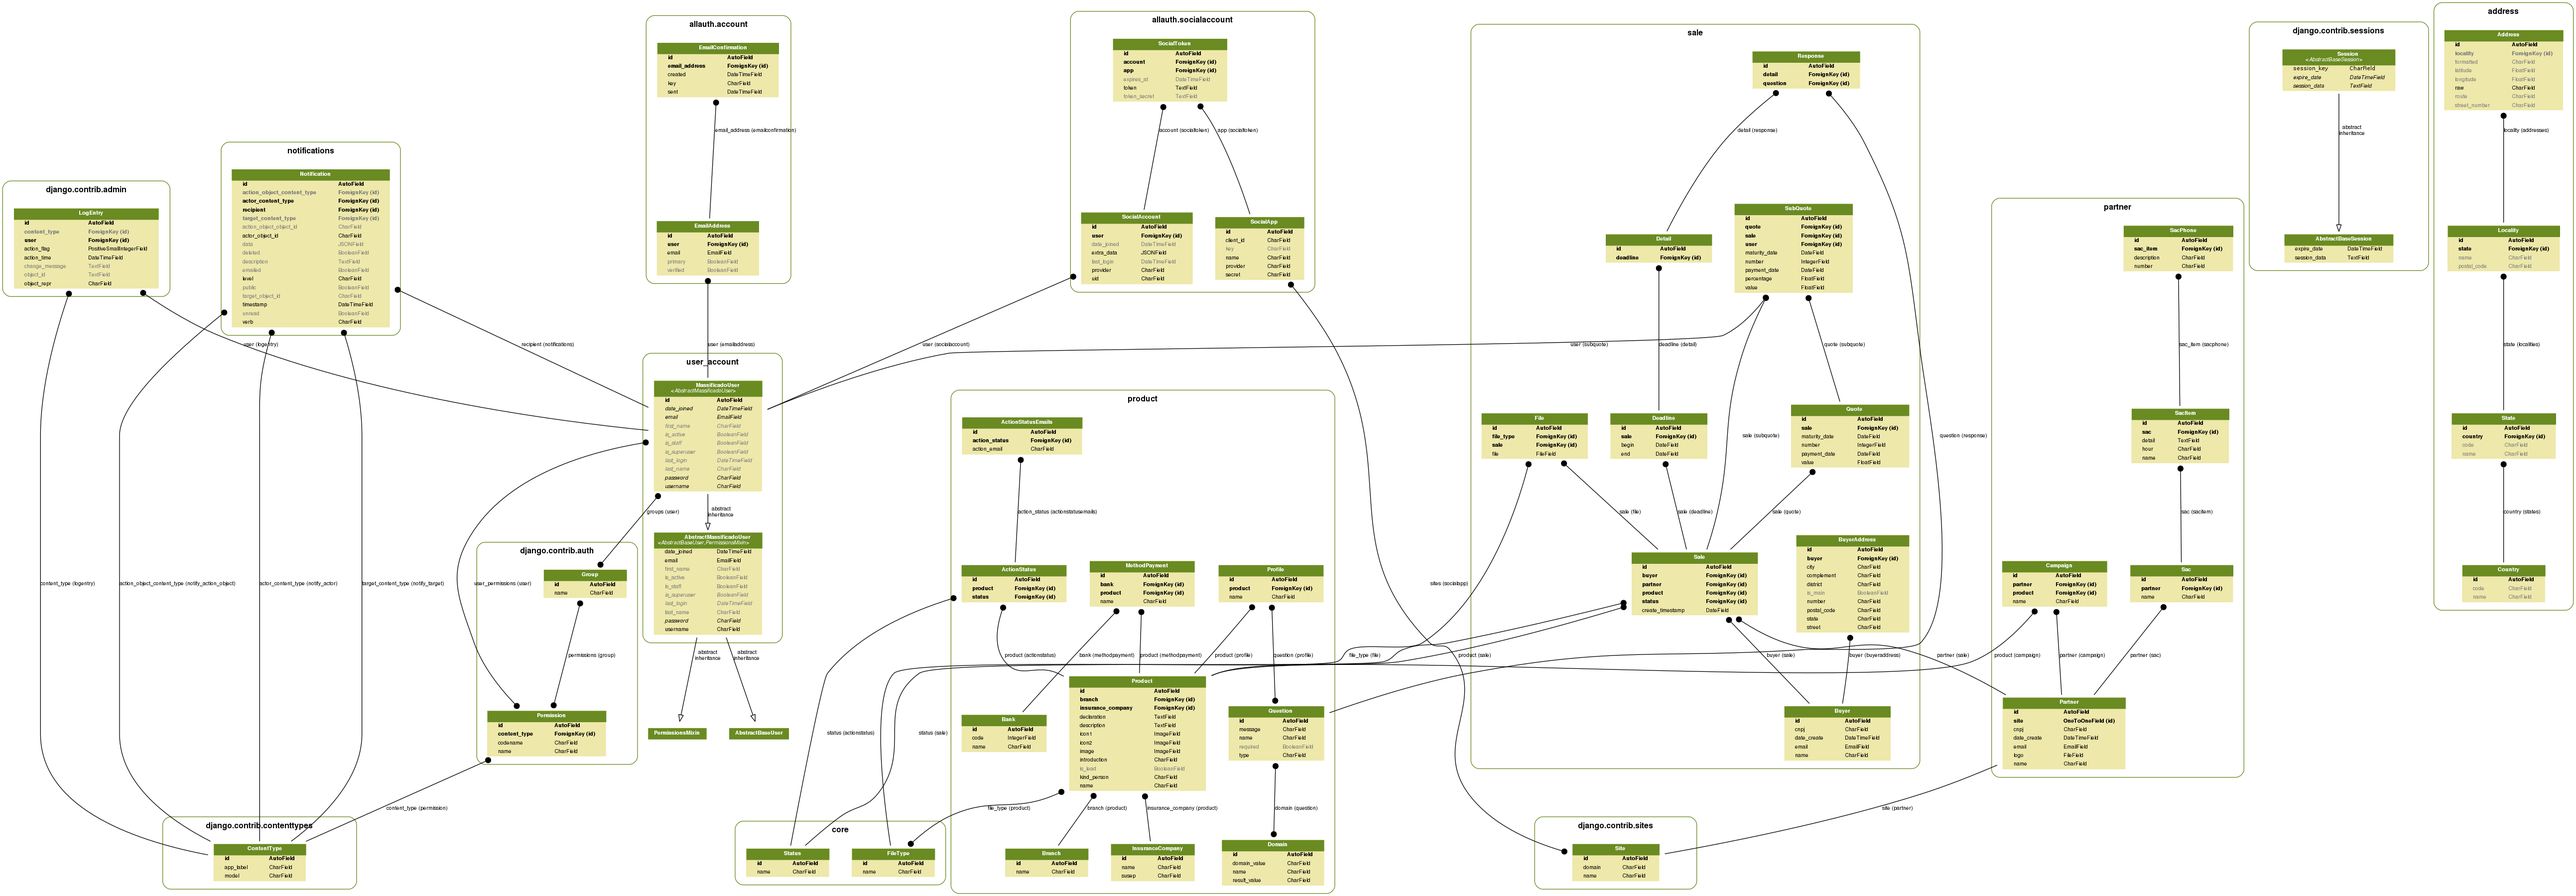
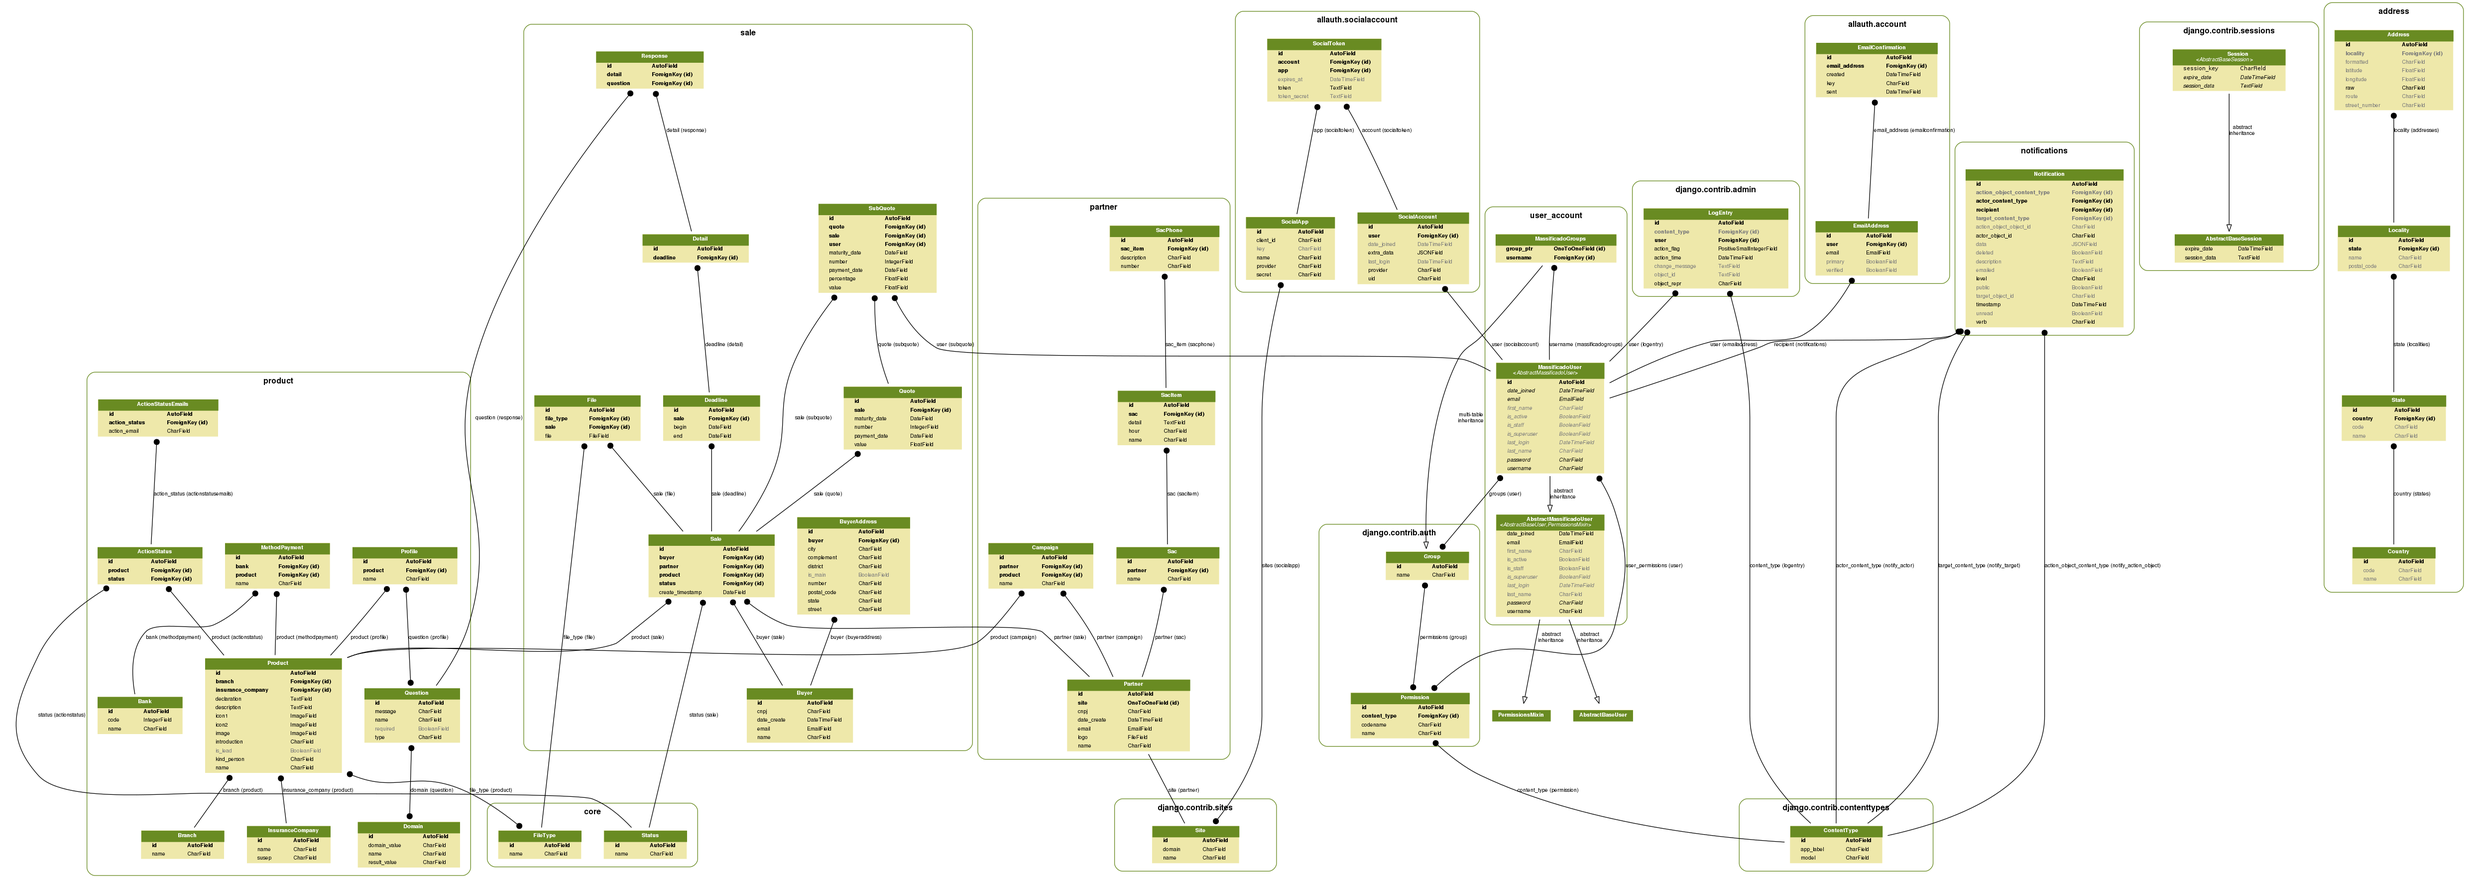
Forms Profile Product

diff --git a/themes/default/templates/header.html b/themes/default/templates/header.html
@@ -17,29 +17,29 @@
     <!-- Collect the nav links, forms, and other content for toggling -->
     <div class="collapse navbar-collapse" id="nav-header">
       <ul class="nav navbar-nav navbar-right">
-{#        <li><a href="{% if request.get_full_path != '/' %}/{% endif %}#sec-about" class="page-scroll">{% trans "Sobre nós" %}</a></li>#}
-        <li><a href="{% if request.get_full_path != '/' %}/{% endif %}#sec-products" class="page-scroll">{% trans "Produtos " %}
+{#        <li><a href="{% if request.get_full_path != '/' %}/{% endif %}#sec-about" class="page-scroll">{% trans "About us" %}</a></li>#}
+        <li><a href="{% if request.get_full_path != '/' %}/{% endif %}#sec-products" class="page-scroll">{% trans "Products" %}
 {#                {% if user.is_authenticated %}#}
                     <span class="fa fa-shopping-cart fa-lg"></span>
 {#                {% endif %}#}
             </a>
         </li>
-{#        <li><a href="{% if request.get_full_path != '/' %}/{% endif %}#sec-contact" class="page-scroll">{% trans "Fale conosco" %}</a></li>#}
+{#        <li><a href="{% if request.get_full_path != '/' %}/{% endif %}#sec-contact" class="page-scroll">{% trans "Contact Us" %}</a></li>#}
 {#        <li><a href="{% url 'sac' %}" class="page-scroll">{% trans "SAC" %}</a></li>#}
         {% if user.is_authenticated %}
             {% if user.is_admin or user.is_superuser %}
                 <li><a href="{% if request.get_full_path != '/' %}/{% endif %}#dashBoard" class="page-scroll">{% trans "Dashboard" %}</a></li>
-                <li><a href="{% if request.get_full_path != '/' %}/{% endif %}#production" class="page-scroll">{% trans "Produção" %}</a></li>
-                <li><a href="{% url 'entries' %}" class="page-scroll">{% trans "Cadastros" %}</a></li>
-                <li><a href="#notifications" class="page-scroll">{% trans "Notificações" %}</a></li>
+                <li><a href="{% url 'production' %}" class="page-scroll">{% trans "Production" %}</a></li>
+                <li><a href="{% url 'entries' %}" class="page-scroll">{% trans "Entries" %}</a></li>
             {% endif %}
             <li class="dropdown">
                 <a class="dropdown-toggle" data-toggle="dropdown" href="#">
                     <b>{% user_display user %}</b><span class="caret"></span></a>
               <ul class="dropdown-menu">
-                <li><a href="#">{% trans "Meu Perfil" %}</a></li>
+                <li><a href="#">{% trans "My Profile" %}</a></li>
+                <li><a href="#notifications" class="page-scroll">{% trans "Notifications" %}</a></li>
                 <li class="divider"></li>
-                <li><a href="{% url 'account_logout' %}">{% trans 'Sair' %}</a></li>
+                <li><a href="{% url 'account_logout' %}">{% trans 'Logout' %}</a></li>
               </ul>
             </li>
         {% else %}

diff --git a/themes/default/templates/sections/products.html b/themes/default/templates/sections/products.html
@@ -110,7 +110,7 @@
                                                             <span class="fa fa-plus"> Saiba mais</span>
                                                         </a>
                                                         {% if user.is_authenticated %}
-                                                            <a href="{% url 'product-sale' product.pk %}" class="page-scroll btn btn-primary col-lg-12 col-md-12 col-sm-6 col-xs-6" role="button">
+                                                            <a href="{% url 'product-new-buyer' product.pk %}" class="page-scroll btn btn-primary col-lg-12 col-md-12 col-sm-6 col-xs-6" role="button">
                                                                 <span class="fa fa-cart-plus"> Contratar</span>
                                                             </a>
                                                         {% endif %}
@@ -152,7 +152,7 @@
                                                             <span class="fa fa-plus"> Saiba mais</span>
                                                         </a>
                                                         {% if user.is_authenticated %}
-                                                            <a href="{% url 'product-sale' product.pk %}" class="page-scroll btn btn-primary col-lg-12 col-md-12 col-sm-6 col-xs-6" role="button">
+                                                            <a href="{% url 'product-new-buyer' product.pk %}" class="page-scroll btn btn-primary col-lg-12 col-md-12 col-sm-6 col-xs-6" role="button">
                                                                 <span class="fa fa-cart-plus"> Contratar</span>
                                                             </a>
                                                         {% endif %}

diff --git a/themes/default/templates/page-production-section.html b/themes/default/templates/page-production-section.html
@@ -1,0 +1,32 @@
+{% extends 'base-sec.html' %}
+{% load bootstrap3 %}
+{% load i18n %}
+
+{% block section-title %}{% trans 'Production' %}{% endblock %}
+{% block section-id %}section-production{% endblock %}
+{% block section-content %}
+    <form id="entries-search-form">
+        <div class="input-group">
+          <input type="text" class="form-control" placeholder="{% trans 'Search for a Sale' %}">
+          <span class="input-group-btn">
+            <button class="btn btn-info" type="submit">
+                <span class="fa fa-search"></span>
+            </button>
+          </span>
+        </div>
+    </form>
+    <div class="row">
+        <div class="col-md-4"><strong>{% trans 'Buyer' %}</strong></div>
+        <div class="col-md-4"><strong>{% trans 'Product' %}</strong></div>
+        <div class="col-md-4"><strong>{% trans 'Status' %}</strong></div>
+    </div>
+    {% for sale in sales %}
+        <div class="row">
+            <a href="{% url 'product-edit-buyer' sale.product.pk sale.buyer.pk %}">
+                <div class="col-md-4">{{ sale.buyer }}</div>
+                <div class="col-md-4">{{ sale.product }}</div>
+                <div class="col-md-4">{{ sale.status }}</div>
+            </a>
+        </div>
+    {% endfor %}
+{% endblock %}

diff --git a/themes/default/templates/page-sale-section.html b/themes/default/templates/page-sale-section.html
@@ -18,7 +18,9 @@
                 {% bootstrap_dynamic_formset addressbuyer can_delete=True form_wrapper="col-md-4 well" %}
             </div>
         </div>
-        <input type="hidden" name="productpk" value="{{ productpk }}">
+        {% if productpk %}
+            <input type="hidden" name="productpk" value="{{ productpk }}">
+        {% endif %}
         <div class="row">
             <div class="col-md-4 col-md-offset-4">
                 {% bootstrap_button "Save" button_type="submit" button_class="btn-success pull-right" icon="ok" %}

diff --git a/themes/default/templates/page-production.html b/themes/default/templates/page-production.html
@@ -1,0 +1,5 @@
+{% extends 'base.html' %}
+
+{% block content %}
+    {% include 'page-production-section.html' %}
+{% endblock %}

diff --git a/sale/views.py b/sale/views.py
@@ -2,36 +2,38 @@
 from django.contrib.auth.mixins import LoginRequiredMixin
 from django.core.urlresolvers import reverse_lazy
 from django.db import transaction
+from django.core.paginator import Paginator
+from django.views.generic.detail import DetailView
 from django.views.generic.edit import CreateView, UpdateView
 from django.views.generic import ListView
 from .models import Sale, Partner, Buyer, Status
-from .forms import SaleBuyerFormSet, BuyerForm, FullSaleForm, AddressBuyerFormset
+from .forms import BuyerForm, AddressBuyerFormset
 from product.models import Product
 
 
-class SalesView(LoginRequiredMixin, ListView):
-    model = Sale
+class ProductionView(LoginRequiredMixin, ListView):
     context_object_name = 'sales'
-    template_name = 'page-sales.html'
+    template_name = 'page-production.html'
 
     def get_queryset(self):
-        return Sale.objects.all()
+        # todo: filter sales by the user and his permissions
+        # sale_page = Paginator(Sale.objects.all(), 1000)
+        return Paginator(Sale.objects.all(), 1000).page(1)
 
 
-class CreateSaleView(LoginRequiredMixin, CreateView):
+class CreateBuyerView(LoginRequiredMixin, CreateView):
     model = Buyer
     form_class = BuyerForm
     template_name = 'page-sale.html'
-    context_object = 'sale'
 
     def get_context_data(self, **kwargs):
-        data = super(CreateSaleView, self).get_context_data(**kwargs)
+        data = super(CreateBuyerView, self).get_context_data(**kwargs)
         data['productpk'] = self.kwargs['productpk']
         data['addressbuyer'] = AddressBuyerFormset()
         return data
 
     def form_valid(self, form):
-        response = super(CreateSaleView, self).form_valid(form)
+        response = super(CreateBuyerView, self).form_valid(form)
         addresses = AddressBuyerFormset(self.request.POST)
         if addresses.is_valid():
             addresses.instance.buyer = self.object
@@ -48,10 +50,29 @@ class CreateSaleView(LoginRequiredMixin, CreateView):
         return reverse_lazy('index_view')
 
 
-class FullSaleView(LoginRequiredMixin, UpdateView):
-    model = Sale
-    form_class = FullSaleForm
-    template_name = 'page-sale-full.html'
+class EditBuyerView(LoginRequiredMixin, UpdateView):
+    model = Buyer
+    form_class = BuyerForm
+    template_name = 'page-sale.html'
+
+    def get_context_data(self, **kwargs):
+        data = super(EditBuyerView, self).get_context_data(**kwargs)
+        data['addressbuyer'] = AddressBuyerFormset()
+        return data
+
+    def form_valid(self, form):
+        response = super(EditBuyerView, self).form_valid(form)
+        addresses = AddressBuyerFormset(self.request.POST)
+        if addresses.is_valid():
+            addresses.instance.buyer = self.object
+            addresses.save()
+        return response
 
     def get_success_url(self):
-        return reverse_lazy('')
+        return reverse_lazy('index_view')
+
+
+class EditProductProfileView(LoginRequiredMixin, DetailView):
+    model = Sale
+    # form_class = ProductProfileForm
+    template_name = 'page-sale-product-view.html'

diff --git a/sale/forms.py b/sale/forms.py
@@ -2,25 +2,7 @@
 from django import forms
 from django.forms.models import inlineformset_factory
 
-from sale.models import Sale, Buyer, BuyerAddress
-
-
-class SaleForm(forms.ModelForm):
-    class Meta:
-        model = Sale
-        fields = []
-
-    def clean_product(self):
-        return self.instance.product
-
-    def clean_partner(self):
-        return self.instance.partner
-
-
-class FullSaleForm(forms.ModelForm):
-    class Meta:
-        model = Sale
-        fields = []
+from sale.models import Sale, Buyer, BuyerAddress, Deadline, Quote, File
 
 
 class BuyerForm(forms.ModelForm):
@@ -35,4 +17,29 @@ class BuyerAddressForm(forms.ModelForm):
         fields = ['street', 'district', 'complement', 'number', 'city', 'state', 'postal_code', ]
 
 AddressBuyerFormset = inlineformset_factory(Buyer, BuyerAddress, form=BuyerAddressForm, extra=0, min_num=1)
-SaleBuyerFormSet = inlineformset_factory(Buyer, Sale, form=SaleForm, extra=0, min_num=1)
+
+
+class QuoteSaleForm(forms.ModelForm):
+    class Meta:
+        model = Quote
+        fields = ['number', 'payment_date', 'value', 'maturity_date']
+
+QuoteSaleFormset = inlineformset_factory(Sale, Quote, form=QuoteSaleForm, extra=0, min_num=1)
+
+
+class DeadlineSaleForm(forms.ModelForm):
+
+    class Meta:
+        model = Deadline
+        fields = ['begin', 'end']
+
+DeadlineSaleFormset = inlineformset_factory(Sale, Deadline, form=DeadlineSaleForm, extra=0, min_num=1)
+
+
+class FileSaleForm(forms.ModelForm):
+
+    class Meta:
+        model = File
+        fields = ['file', 'file_type']
+
+FileSaleFormset = inlineformset_factory(Sale, File, form=FileSaleForm, extra=0, min_num=1)

diff --git a/massificados/urls.py b/massificados/urls.py
@@ -20,9 +20,7 @@ from django.contrib import admin
 from django.conf import settings
 # from django.conf.urls.static import static
 from core.views import IndexView, EntriesView
-from sale.views import CreateSaleView
-from sale.views import FullSaleView
-from sale.views import SalesView
+from sale.views import ProductionView, CreateBuyerView, EditBuyerView, EditProductProfileView
 from user_account.views import (EntriesProfilesView, EntriesUsersView, EntrieUserNewView, EntrieUserEditView,
                                 EntrieProfileNewView, EntrieProfileEditView)
 
@@ -48,10 +46,16 @@ urlpatterns = [
     url(r'^accounts/', include('allauth.urls')),
 
 
-    url(r'^sales/$', SalesView.as_view(), name='sales'),
+    # url(r'^sales/$', SalesView.as_view(), name='sales'),
     # url(r'^product/sale/$', CreateSaleView.as_view(), name='product-sale'),
-    url(r'^product/(?P<productpk>[0-9]+)/sale/$', CreateSaleView.as_view(), name='product-sale'),
-    url(r'^sale/(?P<pk>[0-9]+)/$', FullSaleView.as_view(), name='sale-full'),
+    url(r'^product/(?P<productpk>[0-9]+)/buyer/$', CreateBuyerView.as_view(), name='product-new-buyer'),
+    url(r'^product/(?P<productpk>[0-9]+)/buyer/(?P<pk>[0-9]+)$', EditBuyerView.as_view(), name='product-edit-buyer'),
+
+    url(r'^product/(?P<productpk>[0-9]+)/buyer/(?P<pk>[0-9]+)/profile$', EditProductProfileView.as_view(), name='product-profile'),
+
+    # url(r'^sale/(?P<pk>[0-9]+)/$', FullSaleView.as_view(), name='sale-full'),
+
+    url(r'^production/$', ProductionView.as_view(), name='production'),
 
 ] + static(settings.MEDIA_URL, document_root=settings.MEDIA_ROOT)
 

diff --git a/user_account/views.py b/user_account/views.py
@@ -2,6 +2,7 @@
 from django.contrib.auth.models import Group
 from django.contrib.auth.mixins import LoginRequiredMixin
 from django.core.urlresolvers import reverse_lazy
+from django.shortcuts import render
 from django.utils.translation import ugettext_lazy as _
 from django.views.generic.edit import CreateView, UpdateView
 from core.views import MassificadoPageListView
@@ -44,6 +45,19 @@ class EntrieUserEditView(LoginRequiredMixin, UpdateView):
     context_object_name = 'user_entrie'
     form_class = EntrieUserForm
     template_name = 'page-entries-user.html'
+
+    # def get(self, request, *args, **kwargs):
+    #     import ipdb; ipdb.set_trace()
+    #     form = self.form_class(initial={'groups': self.model.groups.all()[0].pk})
+    #     return render(request, self.template_name, {'form': form})
+    # def get_initial(self):
+    #     # import ipdb; ipdb.set_trace()
+    #
+    #     return super(EntrieUserEditView, self).get_initial()
+
+    def __init__(self, exp = None, *args, **kwargs):
+        super(PaymentForm, self).__init__(*args, **kwargs)
+
 
     def get_success_url(self):
         return reverse_lazy('entries-users')

diff --git a/user_account/models.py b/user_account/models.py
@@ -3,7 +3,7 @@ from __future__ import unicode_literals
 import re
 from django.db import models
 from django.core import validators
-from django.contrib.auth.models import AbstractBaseUser, PermissionsMixin, UserManager
+from django.contrib.auth.models import AbstractBaseUser, PermissionsMixin, UserManager, Group
 from django.utils.translation import ugettext_lazy as _
 from django.utils import timezone
 from partner.models import Partner
@@ -30,6 +30,7 @@ class AbstractMassificadoUser(AbstractBaseUser, PermissionsMixin):
     is_active = models.BooleanField(_('Active'), default=True)
     date_joined = models.DateTimeField(_('Date joined'), default=timezone.now)
 
+
     class Meta:
         verbose_name = _('user')
         verbose_name_plural = _('users')
@@ -53,3 +54,6 @@ class MassificadoUser(AbstractMassificadoUser):
     # status = models.ForeignKey(Status)
     # file_type = models.ForeignKey(FileType)
 
+
+class MassificadoGroups(Group):
+    username = models.ForeignKey(MassificadoUser)

diff --git a/user_account/forms.py b/user_account/forms.py
@@ -27,7 +27,7 @@ class EntrieUserForm(forms.ModelForm):
     password1 = forms.CharField(widget=forms.PasswordInput, label=_("Password"), required=False)
     password2 = forms.CharField(widget=forms.PasswordInput, label=_("Password (again)"), required=False)
 
-    groups = forms.ModelChoiceField(queryset=Group.objects.all())
+    groups = forms.ModelChoiceField(queryset=Group.objects.all(), initial=1)
 
     class Meta:
         model = User
